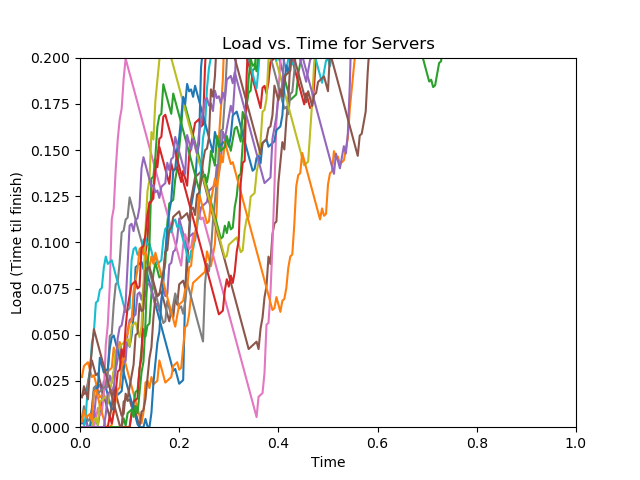
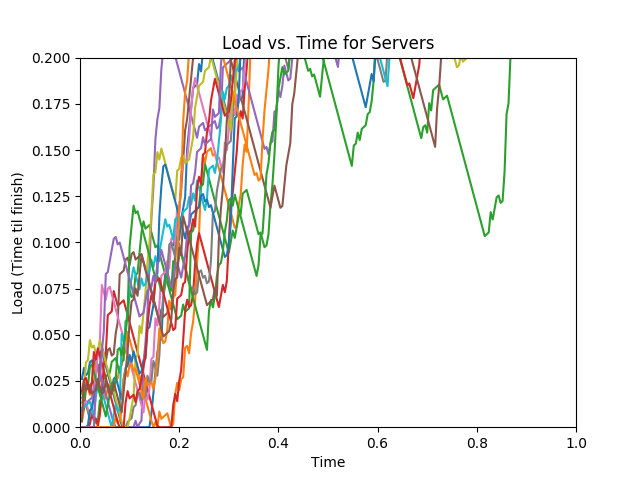
Added load balancer failure

diff --git a/main.py b/main.py
@@ -226,7 +226,7 @@ def run_consistency_check(servers):
 		for otherServer in servers:
 			if server.id != otherServer.id:
 				for packet in server.packet_history:
-					if (packet.clientid, packet.port_num) in [(pckt.clientid, pckt.port_num)for pckt in otherServer.packet_history]:
+					if (packet.clientid, packet.port_num) in [(pckt.clientid, pckt.port_num) for pckt in otherServer.packet_history]:
 						perFlowConsistent = False
 						break
 
@@ -264,8 +264,14 @@ def run_simulation(assignment_method):
 		servers.append(server)
 
 	# Main Simulation Processing Loop
-	for packet in packets:
-		lb_id = packet.clientid % num_load_balancers
+	for i in range(len(packets)):
+		packet = packets[i]
+
+		if i < len(packets)/2:
+			lb_id = packet.clientid % num_load_balancers
+		else: #last load balancer "goes down"
+			lb_id = packet.clientid % (num_load_balancers - 1)
+
 		load_balancer = load_balancers[lb_id]
 		switcher = {
 			"RandomAssignment": load_balancer.assign_server_random,  # No per-flow consistency :(
